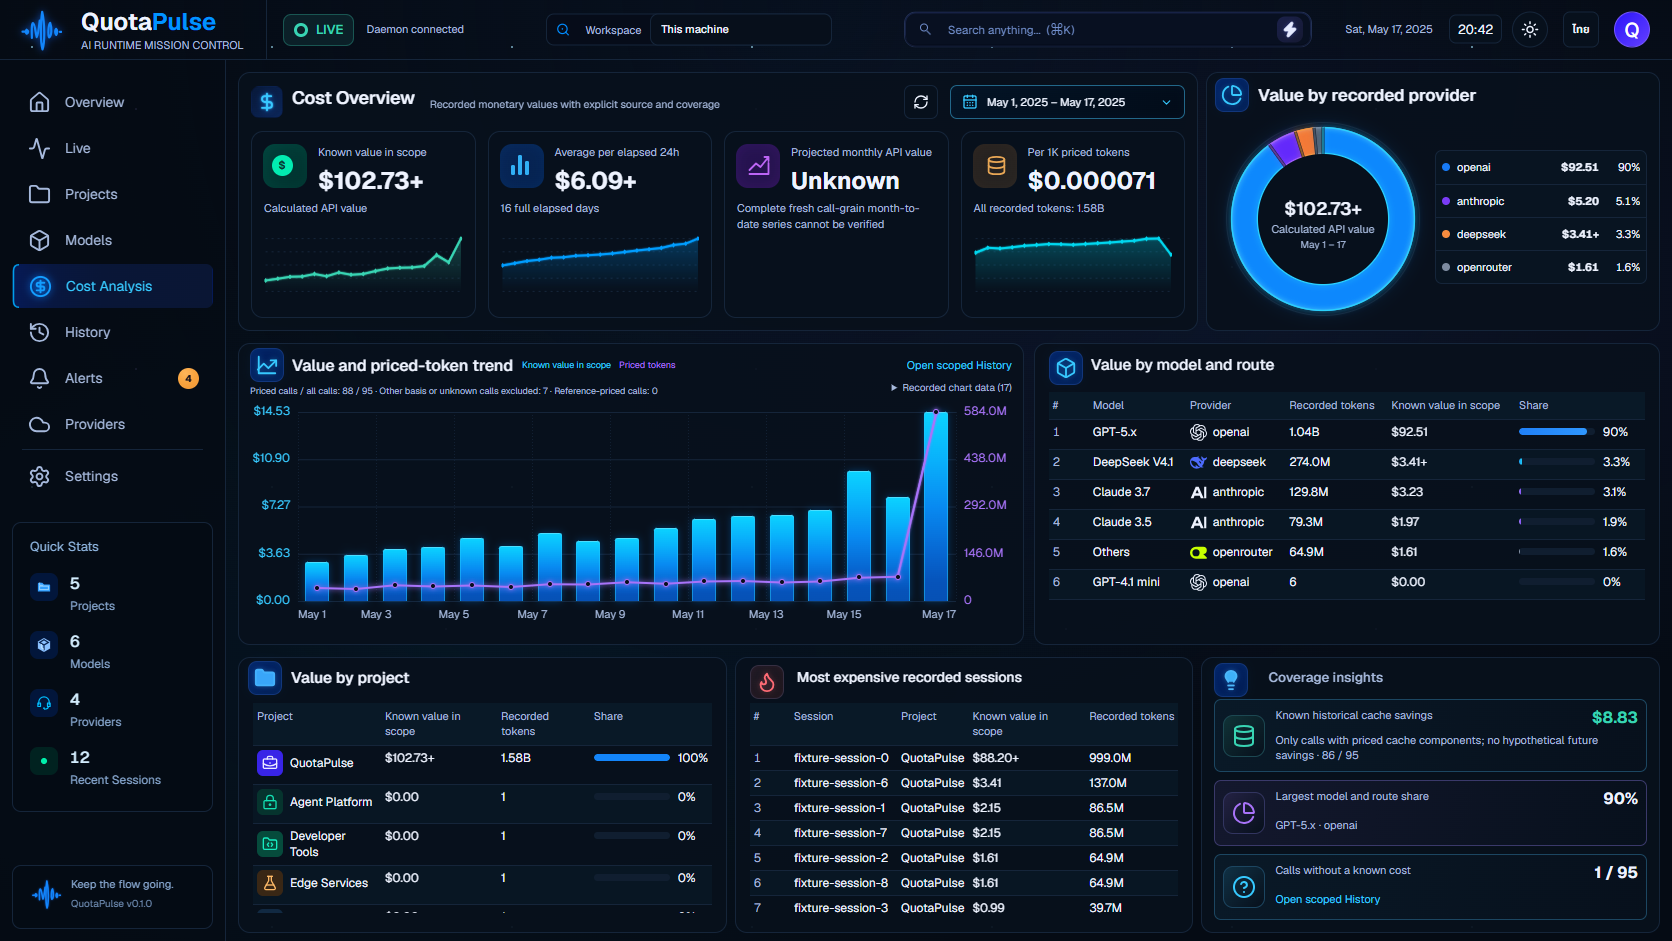
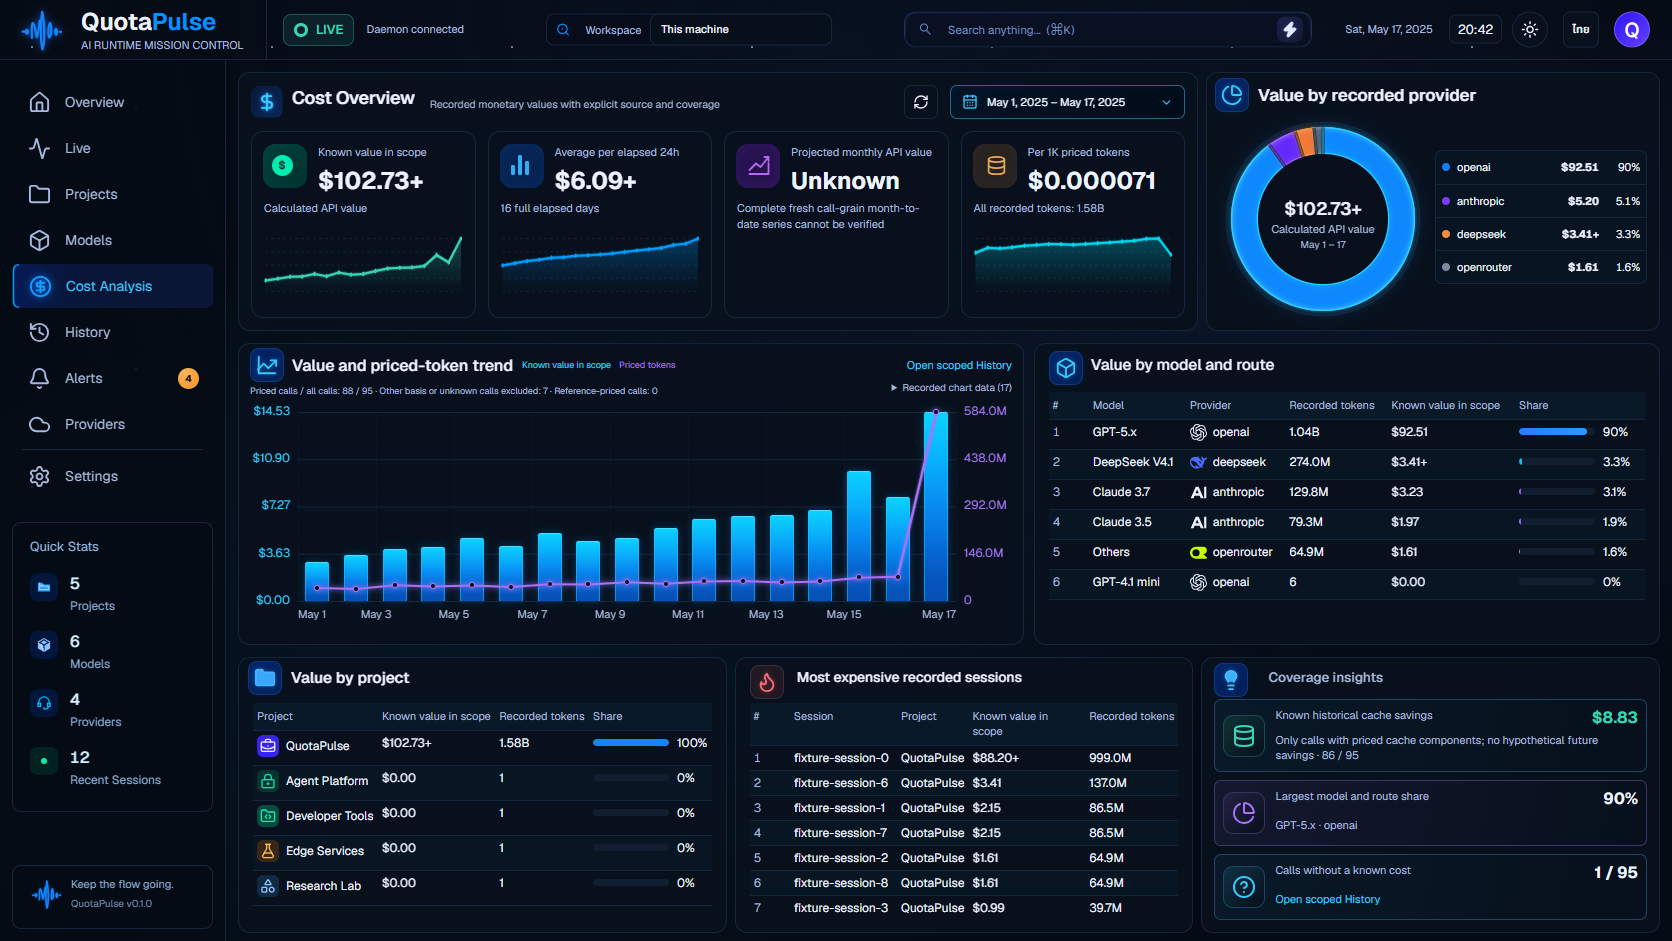
Keep Cost table headers and project names within the original row geometry

Changed region(s): [[0.1555, 0.7396, 0.4354, 0.9862], [0.4043, 0.9245, 0.4354, 0.9554]]

diff --git a/packages/web/src/redesign/cost.css b/packages/web/src/redesign/cost.css
@@ -321,7 +321,7 @@
  .qp-cost-projects tbody tr:nth-child(2) { --badge-ink:#12dfb2; --badge-fill:#06342e; --rank-bar:#723af2; }
  .qp-cost-projects tbody tr:nth-child(3) { --badge-ink:#17ebc0; --badge-fill:#064b3c; --rank-bar:#05bffa; }
  .qp-cost-projects tbody tr:nth-child(4) { --badge-ink:#ffba67; --badge-fill:#392715; --rank-bar:#ff8940; }
- .qp-redesign[data-testid=production-cost][data-theme=dark] .qp-cost-project-link svg { color:var(--badge-ink); background:var(--badge-fill); padding:5px; border-radius:6px; }
+ .qp-redesign[data-testid=production-cost][data-theme=dark] .qp-cost-project-link svg { color:var(--badge-ink); background:var(--badge-fill); padding:3px; border-radius:6px; }
  .qp-redesign[data-testid=production-cost][data-theme=dark] .qp-cost-projects .qp-cost-share b { background:var(--rank-bar); }
 }
 
